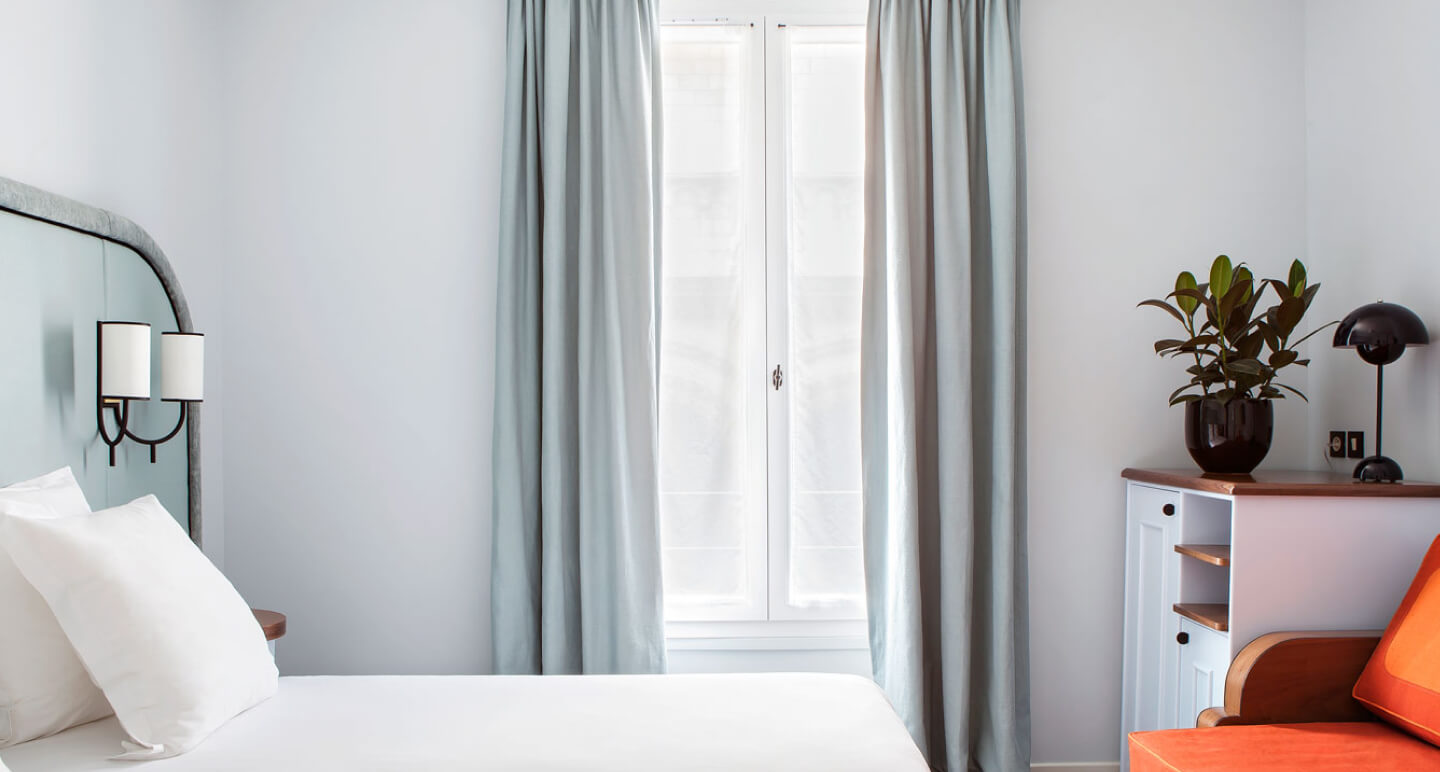
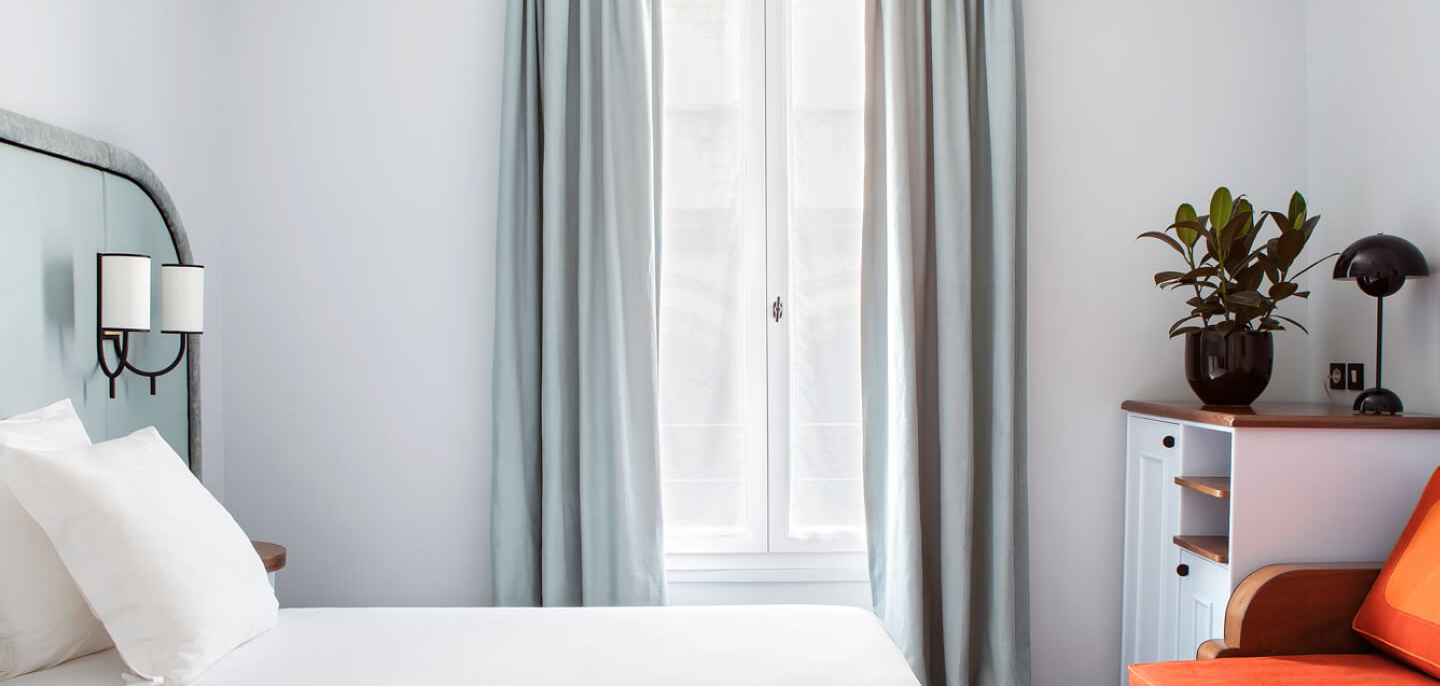
pages 'registration-page' and 'sign-in-page': removed absolute positioning #22

diff --git a/src/pages/registration-page/registration-page.scss b/src/pages/registration-page/registration-page.scss
@@ -1,43 +1,12 @@
 .registration-page {
+  @include page-background('@pag/registration-page/image/bedroom.jpg');
   flex-grow: 1;
-  position: relative;
-  display: flex;
-  justify-content: center;
-  flex-grow: 1;
+  min-height: 686px;
+  display: grid;
+  align-items: center;
 
-  @include media-breakpoint-down($lg) {
-    margin-bottom: 200px;
-  }
-
-  @include media-breakpoint-down($sm) {
-    top: 0;
-    margin-bottom: 600px;
-  }
-
-  @include media-breakpoint-up($xxl) {
-    max-width: $xxl;
-    align-self: center;
-  }
-
-  &__background {
-    width: 100%;
-    object-fit: cover;
-
-    @include media-breakpoint-down($sm) {
-      display: none;
+    &__registration-wrapper{
+      display: flex;
+      justify-content: center;
     }
-  }
-
-  &__registration-wrapper {
-    display: flex;
-    justify-content: center;
-    align-items: center;
-    width: 100%;
-    position: absolute;
-    top: calc($headerHeight + 2.6%);
-
-    @include media-breakpoint-down($sm) {
-      top: 20px;
-    }
-  }
 }

diff --git a/src/pages/sign-in-page/sign-in-page.scss b/src/pages/sign-in-page/sign-in-page.scss
@@ -1,39 +1,12 @@
 .sign-in-page {
+  @include page-background('@pag/sign-in-page/image/bedroom.jpg');
   flex-grow: 1;
-  position: relative;
-  display: flex;
-  justify-content: center;
-  flex-grow: 1;
+  min-height: 700px;
+  display: grid;
+  align-items: center;
 
-  @include media-breakpoint-down($sm) {
-    top: 0;
-    margin-bottom: 310px;
-  }
-
-  @include media-breakpoint-up($xxl) {
-    max-width: $xxl;
-    align-self: center;
-  }
-
-  &__background {
-    width: 100%;
-    object-fit: cover;
-
-    @include media-breakpoint-down($sm) {
-      display: none;
+    &__login-wrapper{
+      display: flex;
+      justify-content: center;
     }
-  }
-
-  &__login-wrapper {
-    display: flex;
-    justify-content: center;
-    align-items: center;
-    width: 100%;
-    position: absolute;
-    top: calc($headerHeight + 22.5%);
-
-    @include media-breakpoint-down($sm) {
-      top: 20px;
-    }
-  }
 }

diff --git a/src/components/registration/registration.scss b/src/components/registration/registration.scss
@@ -27,7 +27,7 @@
   }
 
   &__radiobuttons {
-    margin-top: 12px;
+    margin-top: 15px;
   }
 
   &__birth-date {
@@ -36,7 +36,7 @@
 
   &__credentials {
     @include fieldset-reset-style;
-    margin-top: 20px;
+    margin-top: 25px;
 
     &-legend {
       @include font-h3;
